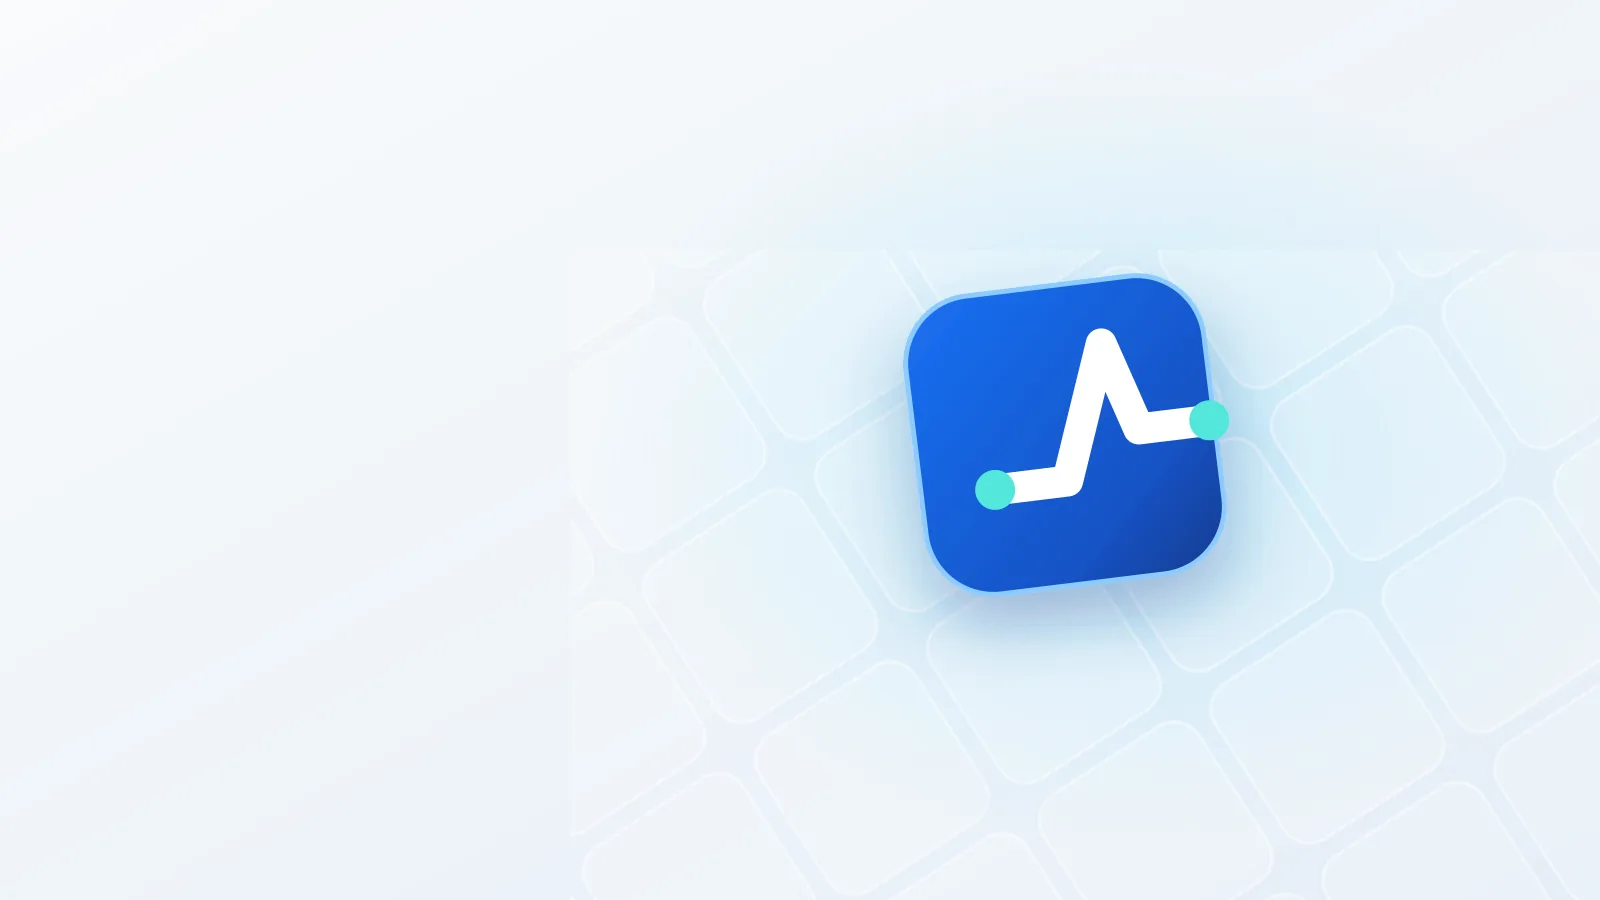
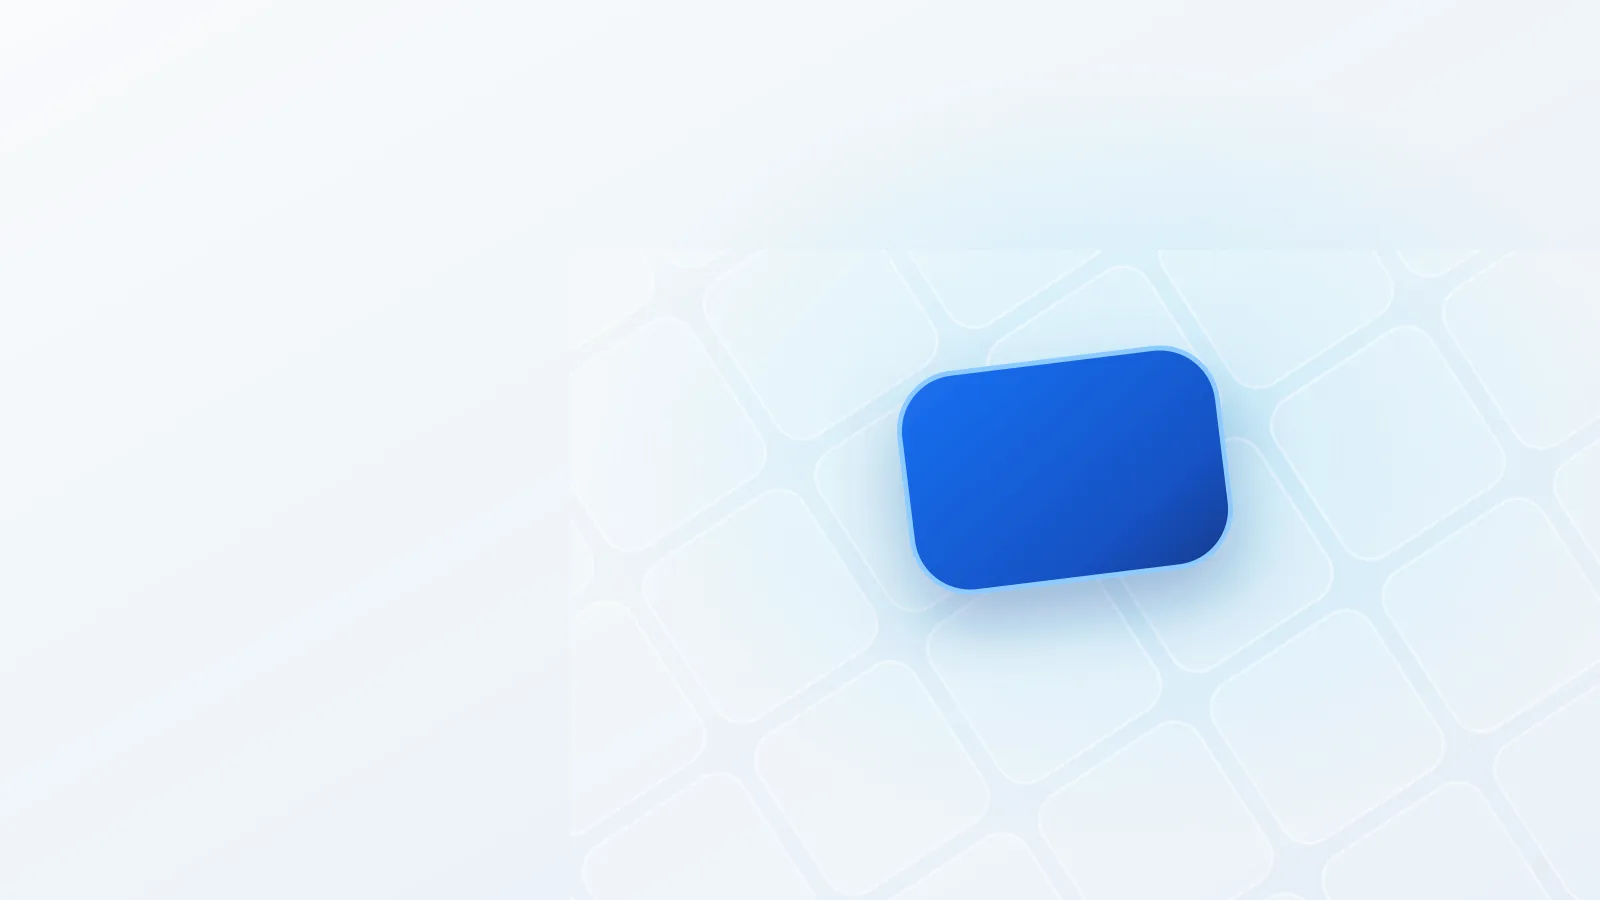
feat: enhance hero section with video and poster transitions, update service ribbon logic

Changed region(s): [[0.5625, 0.28, 0.7812, 0.6844]]

diff --git a/src/App.tsx b/src/App.tsx
@@ -1,4 +1,4 @@
-import { CSSProperties, MouseEvent as ReactMouseEvent, MouseEventHandler, PointerEvent as ReactPointerEvent, ReactNode, TransitionEvent, useCallback, useEffect, useMemo, useRef, useState } from 'react'
+import { CSSProperties, MouseEvent as ReactMouseEvent, MouseEventHandler, PointerEvent as ReactPointerEvent, ReactNode, TransitionEvent, UIEvent as ReactUIEvent, useCallback, useEffect, useMemo, useRef, useState } from 'react'
 import { NAV_ITEMS, PHONE_DEMOS, PROCESS, PROJECTS, SERVICES, SITE, TEAM_MEMBERS, whatsappUrl } from './config'
 import { CASE_ROUTES, normalizePathname, PUBLIC_ROUTES, resolveRoute } from './routes'
 import { applySeoToDocument } from './seo'
@@ -348,6 +348,8 @@ const SERVICE_RIBBON = [
   { name: 'Procesos animados', description: 'Convertimos flujos complejos en experiencias visuales fáciles de explicar y seguir.', message: 'Hola, quiero visualizar un proceso con una experiencia animada.' },
   { name: 'Soporte y evolución', description: 'Acompañamos el producto después del lanzamiento para mantenerlo y hacerlo evolucionar.', message: 'Hola, quiero conversar sobre soporte y evolución de software.' },
 ]
+const SERVICE_RIBBON_COPIES = 5
+const SERVICE_RIBBON_CENTER_COPY = Math.floor(SERVICE_RIBBON_COPIES / 2)
 
 function ServiceRibbonIcon({ index }: { index: number }) {
   const paths: ReactNode[] = [
@@ -365,12 +367,12 @@ function ServiceRibbonIcon({ index }: { index: number }) {
 
 function normalizeServiceRibbonPosition(marquee: HTMLDivElement) {
   const track = marquee.firstElementChild as HTMLElement | null
-  const groupWidth = (track?.scrollWidth ?? 0) / 3
+  const groupWidth = (track?.scrollWidth ?? 0) / SERVICE_RIBBON_COPIES
   if (!groupWidth) return
 
   let nextPosition = marquee.scrollLeft
-  while (nextPosition < groupWidth) nextPosition += groupWidth
-  while (nextPosition >= groupWidth * 2) nextPosition -= groupWidth
+  while (nextPosition < groupWidth * SERVICE_RIBBON_CENTER_COPY) nextPosition += groupWidth
+  while (nextPosition >= groupWidth * (SERVICE_RIBBON_CENTER_COPY + 1)) nextPosition -= groupWidth
   if (nextPosition !== marquee.scrollLeft) marquee.scrollLeft = nextPosition
 }
 
@@ -379,21 +381,19 @@ function HeroBackground({ paused }: { paused: boolean }) {
   const videoRef = useRef<HTMLVideoElement>(null)
   const glyphRef = useRef<HTMLSpanElement>(null)
   const [videoEnabled, setVideoEnabled] = useState(false)
+  const [videoReady, setVideoReady] = useState(false)
 
   useEffect(() => {
     if (navigator.userAgent.includes('jsdom')) return
     const connection = (navigator as Navigator & { connection?: { saveData?: boolean } }).connection
     if (connection?.saveData || window.matchMedia?.('(prefers-reduced-motion: reduce)').matches) return
 
-    const idleWindow = window as Window & {
-      requestIdleCallback?: (callback: IdleRequestCallback, options?: IdleRequestOptions) => number
-      cancelIdleCallback?: (handle: number) => void
-    }
-    const enableVideo = () => setVideoEnabled(true)
-    const idleHandle = idleWindow.requestIdleCallback?.(enableVideo, { timeout: 2200 })
-    const timer = idleHandle === undefined ? window.setTimeout(enableVideo, 1200) : undefined
+    let timer: number | undefined
+    const frame = window.requestAnimationFrame(() => {
+      timer = window.setTimeout(() => setVideoEnabled(true), 120)
+    })
     return () => {
-      if (idleHandle !== undefined) idleWindow.cancelIdleCallback?.(idleHandle)
+      window.cancelAnimationFrame(frame)
       if (timer !== undefined) window.clearTimeout(timer)
     }
   }, [])
@@ -462,7 +462,8 @@ function HeroBackground({ paused }: { paused: boolean }) {
 
   return (
     <div ref={stageRef} className="hero-background" aria-hidden="true">
-      <video ref={videoRef} className="hero-background__video" src={videoEnabled ? HERO_VIDEO_URL : undefined} poster="/assets/brand/hero-poster.webp" autoPlay muted loop playsInline preload="metadata" aria-hidden="true" suppressHydrationWarning/>
+      <img className={`hero-background__poster ${videoReady ? 'is-hidden' : ''}`} src="/assets/brand/hero-poster.webp" alt="" width="1600" height="900" loading="eager" decoding="async" fetchPriority="high" />
+      <video ref={videoRef} className={`hero-background__video ${videoReady ? 'is-ready' : ''}`} src={videoEnabled ? HERO_VIDEO_URL : undefined} autoPlay muted loop playsInline preload="metadata" aria-hidden="true" onCanPlay={() => setVideoReady(true)} suppressHydrationWarning/>
       <span ref={glyphRef} className="hero-background__glyph"><BrandGlyph /></span>
     </div>
   )
@@ -475,10 +476,12 @@ function ServiceRibbon({ paused }: { paused: boolean }) {
   const dragRef = useRef<{ pointerId: number; startX: number; startScroll: number; moved: boolean } | null>(null)
   const suppressClickRef = useRef(false)
   const releaseInteractionRef = useRef<number | null>(null)
+  const normalizeFrameRef = useRef<number | null>(null)
   const activeService = selected === null ? null : SERVICE_RIBBON[selected]
 
   useEffect(() => () => {
     if (releaseInteractionRef.current !== null) window.clearTimeout(releaseInteractionRef.current)
+    if (normalizeFrameRef.current !== null) window.cancelAnimationFrame(normalizeFrameRef.current)
   }, [])
 
   useEffect(() => {
@@ -492,7 +495,7 @@ function ServiceRibbon({ paused }: { paused: boolean }) {
       previousTime = time
 
       const track = marquee.firstElementChild as HTMLElement | null
-      const groupWidth = (track?.scrollWidth ?? 0) / 3
+      const groupWidth = (track?.scrollWidth ?? 0) / SERVICE_RIBBON_COPIES
       if (groupWidth) {
         marquee.scrollLeft += groupWidth * elapsed / 42000
         normalizeServiceRibbonPosition(marquee)
@@ -545,7 +548,15 @@ function ServiceRibbon({ paused }: { paused: boolean }) {
     releaseInteractionRef.current = window.setTimeout(() => {
       setInteracting(false)
       releaseInteractionRef.current = null
-    }, 0)
+    }, event.pointerType === 'touch' ? 700 : 0)
+  }
+  const onMarqueeScroll = (event: ReactUIEvent<HTMLDivElement>) => {
+    const marquee = event.currentTarget
+    if (normalizeFrameRef.current !== null) return
+    normalizeFrameRef.current = window.requestAnimationFrame(() => {
+      normalizeFrameRef.current = null
+      normalizeServiceRibbonPosition(marquee)
+    })
   }
   const onMarqueeClick = (event: ReactMouseEvent<HTMLDivElement>) => {
     if (!suppressClickRef.current) return
@@ -557,12 +568,12 @@ function ServiceRibbon({ paused }: { paused: boolean }) {
   return (
     <section className={`service-ribbon ${paused ? 'is-paused' : ''} ${selected !== null ? 'has-detail' : ''} ${interacting ? 'is-interacting' : ''}`} aria-label="Servicios destacados de NovaLine">
       <h2 className="sr-only">Servicios de NovaLine</h2>
-      <div ref={marqueeRef} className="service-ribbon__marquee" aria-label="Desliza para explorar los servicios" onPointerDown={onPointerDown} onPointerMove={onPointerMove} onPointerUp={finishInteraction} onPointerCancel={finishInteraction} onClickCapture={onMarqueeClick}>
+      <div ref={marqueeRef} className="service-ribbon__marquee" aria-label="Desliza para explorar los servicios" onScroll={onMarqueeScroll} onPointerDown={onPointerDown} onPointerMove={onPointerMove} onPointerUp={finishInteraction} onPointerCancel={finishInteraction} onClickCapture={onMarqueeClick}>
         <div className="service-ribbon__track">
-          {[0, 1, 2].map((copy) => (
-            <div className="service-ribbon__group" aria-hidden={copy !== 1} key={copy}>
+          {Array.from({ length: SERVICE_RIBBON_COPIES }, (_, copy) => (
+            <div className="service-ribbon__group" aria-hidden={copy !== SERVICE_RIBBON_CENTER_COPY} key={copy}>
               {SERVICE_RIBBON.map((service, index) => (
-                <button className={selected === index ? 'is-active' : ''} type="button" onClick={() => setSelected((current) => current === index ? null : index)} tabIndex={copy === 1 ? 0 : -1} aria-expanded={copy === 1 ? selected === index : undefined} key={`${copy}-${service.name}`}>
+                <button className={selected === index ? 'is-active' : ''} type="button" onClick={() => setSelected((current) => current === index ? null : index)} tabIndex={copy === SERVICE_RIBBON_CENTER_COPY ? 0 : -1} aria-expanded={copy === SERVICE_RIBBON_CENTER_COPY ? selected === index : undefined} key={`${copy}-${service.name}`}>
                   <ServiceRibbonIcon index={index}/><span>{service.name}</span>
                 </button>
               ))}

diff --git a/src/styles.css b/src/styles.css
@@ -680,7 +680,7 @@ button, a { -webkit-tap-highlight-color: transparent; }
 .hero-motion-toggle svg path[d^="m9"] { fill: currentColor; stroke: none; }
 
 .service-ribbon { position: relative; z-index: 4; margin-top: 0; padding: 24px 0 26px; overflow: hidden; border: 0; background: #fff; box-shadow: none; }
-.service-ribbon__marquee { width: var(--shell); padding-block: 3px; margin: -3px auto; overflow-x: auto; overflow-y: hidden; cursor: grab; scrollbar-width: none; overscroll-behavior-inline: contain; -webkit-overflow-scrolling: touch; mask-image: linear-gradient(90deg,transparent 0,#000 6%,#000 94%,transparent 100%); -webkit-mask-image: linear-gradient(90deg,transparent 0,#000 6%,#000 94%,transparent 100%); }
+.service-ribbon__marquee { width: var(--shell); padding-block: 3px; margin: -3px auto; overflow-x: auto; overflow-y: hidden; cursor: grab; scrollbar-width: none; overscroll-behavior-x: none; -webkit-overflow-scrolling: touch; mask-image: linear-gradient(90deg,transparent 0,#000 6%,#000 94%,transparent 100%); -webkit-mask-image: linear-gradient(90deg,transparent 0,#000 6%,#000 94%,transparent 100%); }
 .service-ribbon__marquee::-webkit-scrollbar { display: none; }
 .service-ribbon.is-interacting .service-ribbon__marquee { cursor: grabbing; user-select: none; }
 .service-ribbon__track { width: max-content; display: flex; }
@@ -769,8 +769,12 @@ button, a { -webkit-tap-highlight-color: transparent; }
 .hero.hero--reference { position: relative; min-height: clamp(570px,44vw,640px); padding: 0; overflow: hidden; isolation: isolate; background: #eef1f5; }
 .hero.hero--reference::before { content: ''; position: absolute; z-index: 1; right: 0; bottom: 0; left: 0; height: clamp(76px,8vw,112px); pointer-events: none; background: linear-gradient(180deg,rgba(255,255,255,0) 0%,rgba(255,255,255,.08) 30%,rgba(255,255,255,.48) 72%,#fff 100%); }
 .hero-background { position: absolute; z-index: 0; inset: 0; width: 100%; height: 100%; overflow: hidden; pointer-events: none; background: #eef1f5; }
-.hero-background video { position: absolute; inset: 0; width: 100%; height: 100%; display: block; object-fit: cover; object-position: center center; }
-.hero-background__glyph { position: absolute; z-index: 1; left: 65.7%; top: 54.1%; width: clamp(72px,8.8vw,126px); aspect-ratio: 1; display: grid; place-items: center; transform: translate(-50%,-50%) rotate(27deg) scaleY(.82); transform-origin: center; }
+.hero-background__poster, .hero-background__video { position: absolute; inset: 0; width: 100%; height: 100%; display: block; object-fit: cover; object-position: center center; transition: opacity .45s ease; }
+.hero-background__poster { z-index: 0; opacity: 1; }
+.hero-background__video { z-index: 1; opacity: 0; }
+.hero-background__poster.is-hidden { opacity: 0; }
+.hero-background__video.is-ready { opacity: 1; }
+.hero-background__glyph { position: absolute; z-index: 2; left: 65.7%; top: 54.1%; width: clamp(72px,8.8vw,126px); aspect-ratio: 1; display: grid; place-items: center; transform: translate(-50%,-50%) rotate(27deg) scaleY(.82); transform-origin: center; transition: left .45s ease,top .45s ease,width .45s ease; }
 .hero-background__glyph .brand__glyph { width: 100%; height: 100%; filter: drop-shadow(0 4px 3px rgba(0,20,77,.14)); }
 .hero-reference__content { position: relative; z-index: 2; min-height: clamp(570px,44vw,640px); display: flex; align-items: center; padding-top: 52px; }
 .hero-reference__content .hero-reference__copy { width: min(540px,46%); padding: 28px 0; }
@@ -792,7 +796,7 @@ button, a { -webkit-tap-highlight-color: transparent; }
   .hero.hero--reference, .hero-reference__content { min-height: clamp(760px,205vw,840px); }
   .hero.hero--reference::before { height: 0; background: none; }
   .hero.hero--reference::after { content: ''; position: absolute; z-index: 1; inset: 0; pointer-events: none; background: linear-gradient(90deg,rgba(238,241,245,.72) 0%,rgba(238,241,245,.42) 56%,rgba(238,241,245,0) 88%); }
-  .hero-background video { inset: auto 0 0; height: 52%; object-fit: cover; object-position: 66% center; -webkit-mask-image: linear-gradient(180deg,transparent 0,rgba(0,0,0,.35) 9%,#000 24%); mask-image: linear-gradient(180deg,transparent 0,rgba(0,0,0,.35) 9%,#000 24%); }
+  .hero-background__poster, .hero-background__video { inset: auto 0 0; height: 52%; object-fit: cover; object-position: 66% center; -webkit-mask-image: linear-gradient(180deg,transparent 0,rgba(0,0,0,.35) 9%,#000 24%); mask-image: linear-gradient(180deg,transparent 0,rgba(0,0,0,.35) 9%,#000 24%); }
   .hero-background__glyph { left: 66%; top: 78%; width: 15.5vw; }
   .hero-reference__content.shell { width: calc(100vw - 28px); max-width: calc(100vw - 28px); }
   .hero-reference__content { align-items: flex-start; padding-top: 88px; }
@@ -808,7 +812,7 @@ button, a { -webkit-tap-highlight-color: transparent; }
 @media (min-width: 481px) and (max-width: 760px) {
   .hero.hero--reference, .hero-reference__content { min-height: clamp(500px,72vw,550px); }
   .hero.hero--reference::after { background: linear-gradient(90deg,rgba(238,241,245,.9) 0%,rgba(238,241,245,.64) 48%,rgba(238,241,245,.08) 80%); }
-  .hero-background video { inset: 0; width: 100%; height: 100%; object-fit: cover; object-position: center center; -webkit-mask-image: none; mask-image: none; }
+  .hero-background__poster, .hero-background__video { inset: 0; width: 100%; height: 100%; object-fit: cover; object-position: center center; -webkit-mask-image: none; mask-image: none; }
   .hero-reference__content { align-items: center; padding-top: 60px; }
   .hero-reference__content.shell { width: calc(100vw - 40px); max-width: calc(100vw - 40px); }
   .hero-reference__content .hero-reference__copy { flex: 0 0 48%; width: 48%; max-width: 360px; padding: 14px 0; }
@@ -832,7 +836,7 @@ button, a { -webkit-tap-highlight-color: transparent; }
   .hero-reference__content .hero-reference__copy .text-link { min-height: 48px; justify-content: center; margin-inline: 0; padding: 0 16px; font-size: 12px; white-space: nowrap; }
   .hero-reference__content .hero-proof { display: none; }
   .hero-reference__content .hero-motion-toggle { right: 0; bottom: 18px; }
-  .hero-background video { inset: auto 0 0; height: 54%; object-position: 66% center; }
+  .hero-background__poster, .hero-background__video { inset: auto 0 0; height: 54%; object-position: 66% center; }
   .service-ribbon { margin-top: -1px; padding: 14px 0 18px; }
   .service-ribbon__group button { min-width: 166px; min-height: 64px; padding-inline: 15px; }
 }
@@ -841,6 +845,10 @@ button, a { -webkit-tap-highlight-color: transparent; }
   .hero.hero--reference, .hero-reference__content { min-height: 790px; }
   .hero-reference__content .hero-copy__actions { grid-template-columns: 1fr; }
   .hero-reference__content .hero-reference__copy .text-link { width: fit-content; min-height: 42px; justify-self: start; }
+}
+
+@media (prefers-reduced-motion: reduce) {
+  .hero-background__poster, .hero-background__video, .hero-background__glyph { transition: none; }
 }
 
 /* Services page: the former carousel becomes a vertical, scannable story. */

diff --git a/src/App.test.tsx b/src/App.test.tsx
@@ -76,16 +76,23 @@ describe('NovaLine landing', () => {
     expect(video).toHaveAttribute('loop')
     expect(video).toHaveAttribute('playsinline')
     expect(video).toHaveAttribute('preload', 'metadata')
-    expect(video).toHaveAttribute('poster', '/assets/brand/hero-poster.webp')
+    const poster = container.querySelector('.hero-background__poster')
+    expect(poster).toHaveAttribute('src', '/assets/brand/hero-poster.webp')
     expect(video).not.toHaveAttribute('src')
     expect(video?.muted).toBe(true)
     expect(container.querySelector('.hero-background__glyph .brand__glyph')).toBeInTheDocument()
+
+    fireEvent.canPlay(video as HTMLVideoElement)
+    expect(video).toHaveClass('is-ready')
+    expect(poster).toHaveClass('is-hidden')
 
     const pauseButton = screen.getByRole('button', { name: 'Pausar animaciones' })
     fireEvent.click(pauseButton)
     expect(screen.getByRole('button', { name: 'Reanudar animaciones' })).toHaveAttribute('aria-pressed', 'true')
 
     const ribbon = container.querySelector('.service-ribbon') as HTMLElement
+    expect(ribbon.querySelectorAll('.service-ribbon__group')).toHaveLength(5)
+    expect(ribbon.querySelectorAll('.service-ribbon__group[aria-hidden="false"]')).toHaveLength(1)
     expect(ribbon.querySelectorAll('.service-ribbon__group:first-child button')).toHaveLength(8)
     const softwareCard = Array.from(ribbon.querySelectorAll('button')).find((button) => button.textContent?.includes('Software a medida')) as HTMLButtonElement
     fireEvent.click(softwareCard)
@@ -186,6 +193,13 @@ describe('NovaLine landing', () => {
     expect(marquee.scrollLeft).toBeGreaterThanOrEqual(1600)
     expect(marquee.scrollLeft).toBeLessThan(3200)
     await waitFor(() => expect(ribbon).not.toHaveClass('is-interacting'))
+
+    marquee.scrollLeft = 4700
+    fireEvent.scroll(marquee)
+    await waitFor(() => {
+      expect(marquee.scrollLeft).toBeGreaterThanOrEqual(1920)
+      expect(marquee.scrollLeft).toBeLessThan(2880)
+    })
   })
 
   it('presenta la identidad y la sección Nosotros de NovaLine', () => {

diff --git a/FULL-AUDIT-REPORT.md b/FULL-AUDIT-REPORT.md
@@ -24,7 +24,7 @@ Las correcciones locales elevan la estimación ponderada de 76/100 a 88/100. Est
 | Imágenes | 5% | 82 | 97 | AVIF, HTML descubrible, dimensiones y carga correctos |
 | **SEO Health Score** | **100%** | **76** | **88** | **Bueno, con trabajo externo pendiente** |
 
-\* No se aumenta el score de rendimiento sin una nueva medición independiente. El cambio sí evita solicitar el video antes del tiempo ocioso y difiere scripts de analítica.
+\* No se aumenta el score de rendimiento sin una nueva medición independiente. El cambio evita solicitar el video durante el render inicial y difiere scripts de analítica.
 
 ## Cambios implementados
 
@@ -80,7 +80,7 @@ Medición Lighthouse de producción durante la auditoría:
 
 Cambios aplicados después de la medición:
 
-- El video de 2,79 MB ya no se solicita durante el render inicial; usa un póster WebP local de 15 KB, `preload="metadata"` y carga en tiempo ocioso.
+- El video de 2,79 MB ya no se solicita durante el render inicial; usa un póster WebP local de 13 KB y comienza a cargar después del primer pintado, con una transición suave al estar listo.
 - El video no se carga con ahorro de datos ni con preferencia de movimiento reducido.
 - Google Analytics y Microsoft Clarity conservan su cola de eventos, pero difieren la descarga de sus scripts hasta tiempo ocioso.
 - El marquee deja de leer/escribir layout cuando está pausado, seleccionado, en interacción o fuera del hero.
